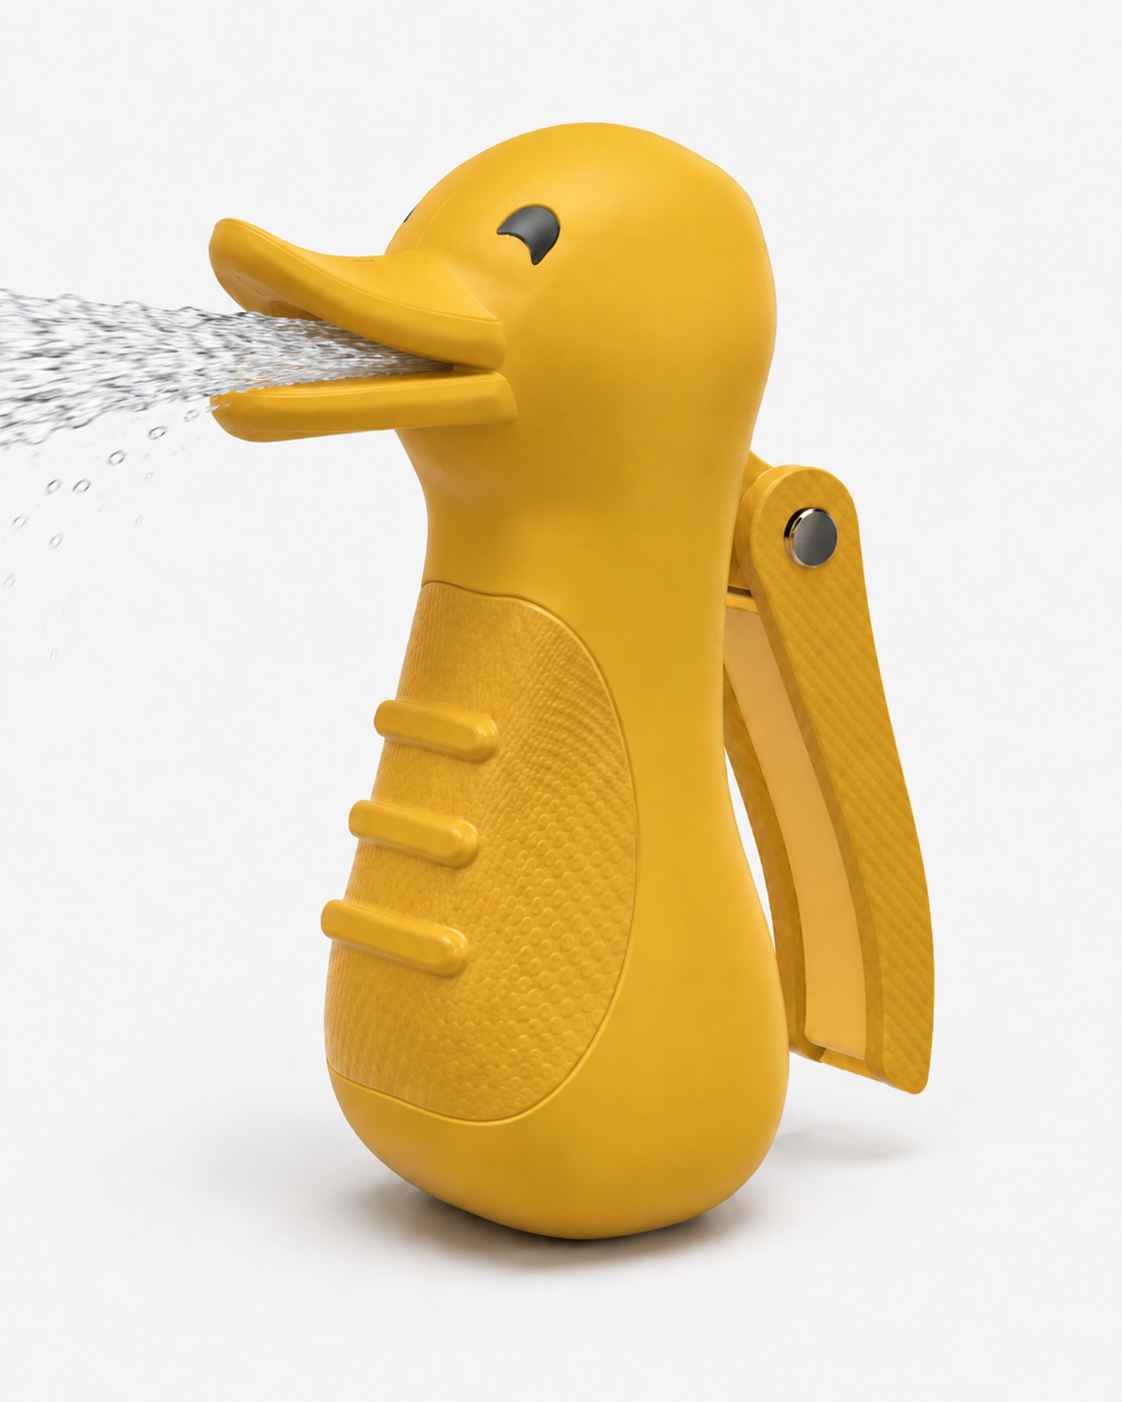
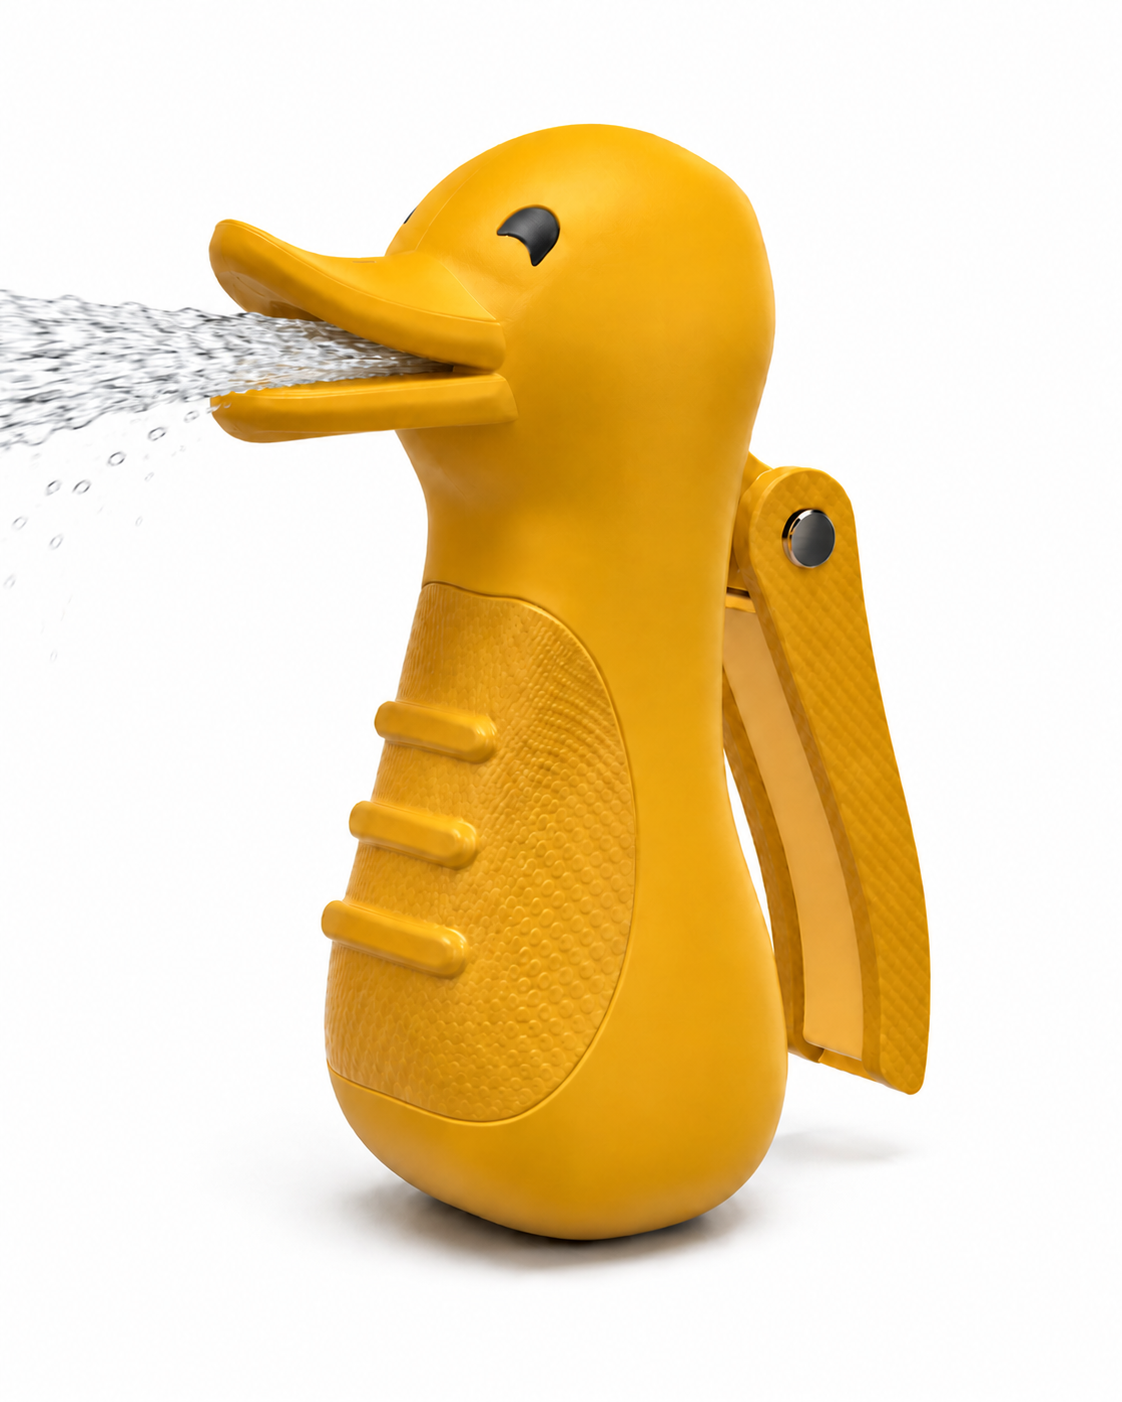
fix: blend duck nozzle hero with page

diff --git a/work-page/index.html b/work-page/index.html
@@ -67,7 +67,7 @@
 
     <li class="tile"><figure>
       <a href="project.html?p=duck-nozzle">
-        <img class="hero-contain" src="assets/heroes/duck-nozzle.png?v=20260828" alt="Yellow duck-shaped hose nozzle spraying water" width="1122" height="1402" loading="lazy" decoding="async">
+        <img class="hero-contain" src="assets/heroes/duck-nozzle.png?v=20260828-white" alt="Yellow duck-shaped hose nozzle spraying water" width="1122" height="1402" loading="lazy" decoding="async">
       </a>
       <figcaption><h2 class="t">Duck Nozzle</h2><span class="c">Product</span></figcaption>
     </figure></li>

diff --git a/work-page/work.html b/work-page/work.html
@@ -61,7 +61,7 @@
 
     <li class="tile"><figure>
       <a href="project.html?p=duck-nozzle">
-        <img class="hero-contain" src="assets/heroes/duck-nozzle.png?v=20260828" alt="Yellow duck-shaped hose nozzle spraying water" width="1122" height="1402" loading="lazy" decoding="async">
+        <img class="hero-contain" src="assets/heroes/duck-nozzle.png?v=20260828-white" alt="Yellow duck-shaped hose nozzle spraying water" width="1122" height="1402" loading="lazy" decoding="async">
       </a>
       <figcaption><h2 class="t">Duck Nozzle</h2><span class="c">Product</span></figcaption>
     </figure></li>
